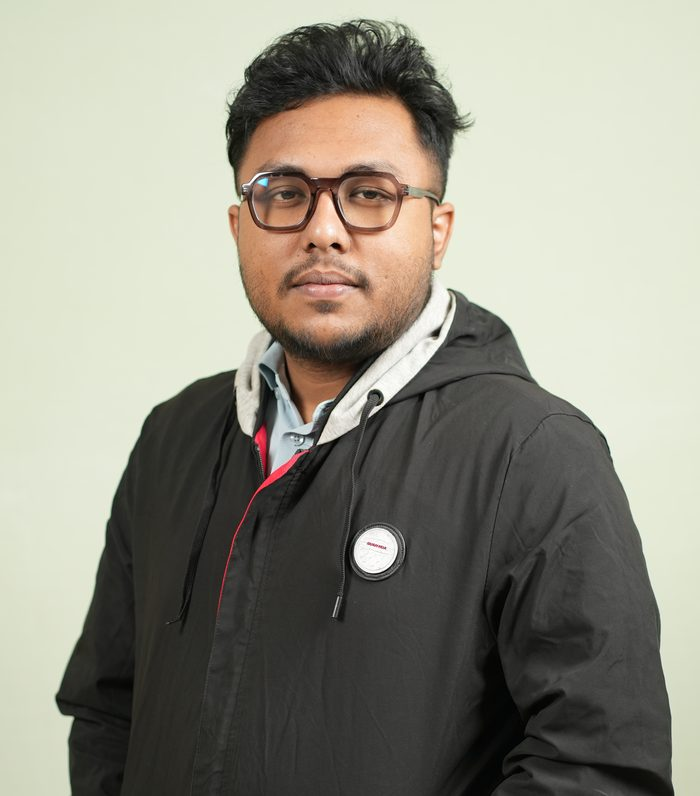
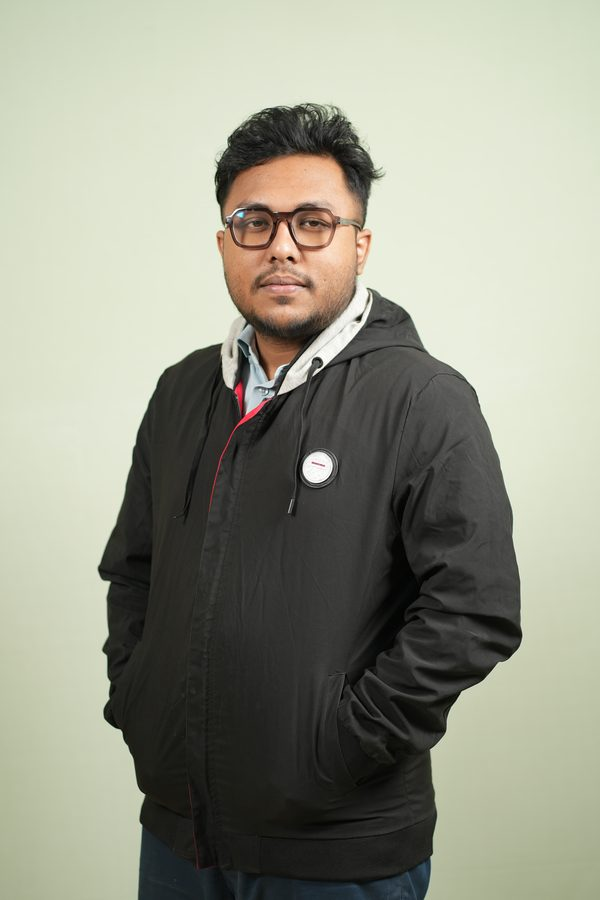
Use full-body portrait in hero; frame for taller portrait

diff --git a/index.html b/index.html
@@ -54,9 +54,9 @@ nav .wrap{display:flex;align-items:center;justify-content:space-between;height:6
 .socials a{color:var(--muted);font-size:.9rem;font-weight:500}
 .socials a:hover{color:var(--accent)}
 .photo{justify-self:center;position:relative}
-.photo img{width:250px;height:284px;object-fit:cover;border-radius:16px;border:1px solid var(--border);box-shadow:0 12px 40px rgba(0,0,0,.45)}
-.photo::after{content:"";position:absolute;inset:14px -14px -14px 14px;border:1px solid var(--accent);border-radius:16px;z-index:-1;opacity:.5}
-@media(max-width:720px){.hero{grid-template-columns:1fr;gap:32px;text-align:center}.hero h1{font-size:2.2rem}.hero p{margin-left:auto;margin-right:auto}.btns,.socials{justify-content:center}.photo{order:-1}.photo img{width:190px;height:216px}}
+.photo img{width:300px;height:auto;display:block;border-radius:16px;border:1px solid var(--border);box-shadow:0 12px 40px rgba(0,0,0,.45)}
+.photo::after{content:"";position:absolute;inset:16px -16px -16px 16px;border:1px solid var(--accent);border-radius:16px;z-index:-1;opacity:.5}
+@media(max-width:720px){.hero{grid-template-columns:1fr;gap:32px;text-align:center}.hero h1{font-size:2.2rem}.hero p{margin-left:auto;margin-right:auto}.btns,.socials{justify-content:center}.photo{order:-1}.photo img{width:210px}}
 
 /* ABOUT */
 .about p{max-width:70ch;color:var(--text);margin-bottom:14px}